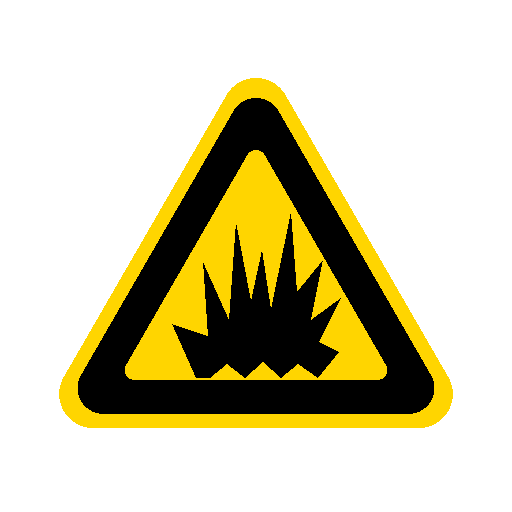
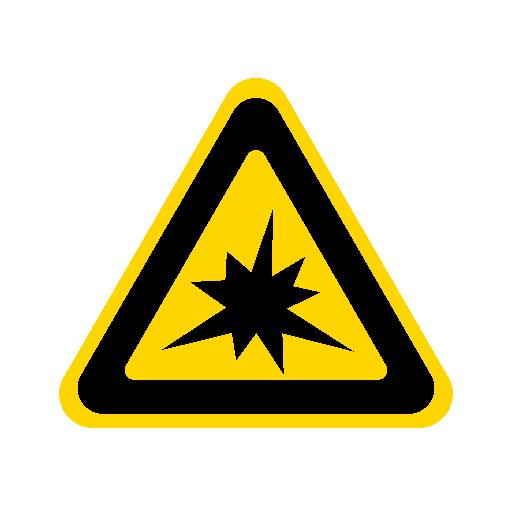
task-101-08-barrel-warning-sign: recentre the sign on the visible corner

Changed region(s): [[0.3125, 0.4062, 0.6875, 0.75]]

diff --git a/Tools/art/blender/barrel.py b/Tools/art/blender/barrel.py
@@ -161,9 +161,9 @@ STK_CAP_CLEAR = rect_dist_to(cx, cy) - 9.5 if not (abs((Vector((cx, cy, 0)) - st
 LID_AP = 34.0 * math.cos(math.radians(180.0 / FACETS))
 STK_EDGE_CLEAR = min(LID_AP - max(p.x * math.cos(math.radians(-90.0 + 45.0 * k + 22.5)) + p.y * math.sin(math.radians(-90.0 + 45.0 * k + 22.5)) for k in range(FACETS)) for p in stk_pts)
 # warning sign (task-101-08): offset copies (0.25 cm) of the body facets it covers, ONE planar projection (plane normal = the bisector of the
-# vertical corner at -45 deg, u along the tangent, v = z), so the sign runs across the facet edge. 27 cm wide, between the rings (z 52..79).
+# vertical corner at -90 deg, u along the tangent, v = z), so the sign runs across the facet edge. 27 cm wide, between the rings (z 52..79).
 mats["warning"] = bpy.data.materials.new("M_Barrel_warning")
-SIGN_W, SIGN_ZC, SIGN_OFF, SIGN_CORNER = 27.0, 65.5, 0.25, 1
+SIGN_W, SIGN_ZC, SIGN_OFF, SIGN_CORNER = 27.0, 65.5, 0.25, 0   # corner at -90 deg: right of the old sticker facet, visible from azimuth -35
 a_c = math.radians(-90.0 + 45.0 * SIGN_CORNER)
 n_c = Vector((math.cos(a_c), math.sin(a_c), 0)); t_c = Vector((-math.sin(a_c), math.cos(a_c), 0))
 zb = rings[5][0].co.z   # body band 51 -> 80 (vertical facets)
@@ -339,7 +339,7 @@ report = {
     "uv_layers": [u.name for u in mesh.uv_layers],
     "uv_checks": {
         "UVMap": {"purpose": "wear mask + decals", "tile_cm": 100.0, "cm_per_uv_unit_min": round(min(dens), 3), "cm_per_uv_unit_max": round(max(dens), 3),
-                  "decal_quads_uv": "sticker: own 0..1 quad; warning: ONE planar projection over 2 facet copies (u along the tangent of the corner at -45 deg, 27 cm = 0..1, v = z 52..79 = 0..1)", "note": "non-decal faces tile past 0..1 (mask is tileable, wrap/repeat)"},
+                  "decal_quads_uv": "sticker: own 0..1 quad; warning: ONE planar projection over 2 facet copies (u along the tangent of the corner at -90 deg, 27 cm = 0..1, v = z 52..79 = 0..1)", "note": "non-decal faces tile past 0..1 (mask is tileable, wrap/repeat)"},
         "LightMap": {"faces": len(boxes), "triangles": tris, "overlapping_face_pairs": overlaps, "bounds_min": [round(float(u1a.min()), 5)], "bounds_max": [round(float(u1a.max()), 5)],
                      "min_gap_px_at_256": round(float(min_gap), 3), "min_border_px_at_256": round(float(border), 3), "required_margin_px": 2, "pass": bool(lm_ok), "texel_scale_px_per_cm_at_256": round(lm_scale, 4)},
     },
@@ -357,7 +357,7 @@ report = {
     "edge_bands": {"seed": SEED, "width_cm": 1.0, "offset_cm": 0.15, "loops": band_stats,
                    "cap": "stepped base (r 9.5 then r 8.5), chamfer to r 7.5, 4 hex bolts (r 1.3, height 0.7, material M_Barrel_cap_edge) at radius 4.2, top z = 134"},
     "removed": ["flame pictogram decal and T_Barrel_Pictogram.png", "EdgeWear vertex colour attribute", "hard-threshold edge chips", "bare metal #8A9099 mix", "16-column rings and the intermediate edge loops added for EdgeWear (back to 8 columns, 12 bands)"],
-    "decal_faces": 1 + sign_faces, "sticker_lid": {"flat_on_lid_z_cm": STK_Z, "size_cm": [STK_W, STK_H], "centre_xy_cm": [round(stk_c.x, 2), round(stk_c.y, 2)], "upright_for_azimuth_deg": -35, "clearance_to_cap_rim_cm": round(STK_CAP_CLEAR, 2), "clearance_to_lid_top_edge_cm": round(STK_EDGE_CLEAR, 2), "body_facet_left_clean": True}, "warning_sign": {"script": "Tools/art/blender/warning_sign.py", "texture": "T_Barrel_Warning.png", "size_px": [512, 512], "faces": sign_faces, "width_cm": SIGN_W, "z_range_cm": [SIGN_ZC - half, SIGN_ZC + half], "offset_cm": SIGN_OFF, "projection": "single planar (bisector of the corner at -45 deg), continues across the facet edge", "blend": "alpha: Masked or Translucent in Unreal", "artwork": "own drawing, no text, not traced from a reference"}, "shading": "flat", "warnings": warnings,
+    "decal_faces": 1 + sign_faces, "sticker_lid": {"flat_on_lid_z_cm": STK_Z, "size_cm": [STK_W, STK_H], "centre_xy_cm": [round(stk_c.x, 2), round(stk_c.y, 2)], "upright_for_azimuth_deg": -35, "clearance_to_cap_rim_cm": round(STK_CAP_CLEAR, 2), "clearance_to_lid_top_edge_cm": round(STK_EDGE_CLEAR, 2), "body_facet_left_clean": True}, "warning_sign": {"script": "Tools/art/blender/warning_sign.py", "texture": "T_Barrel_Warning.png", "size_px": [512, 512], "faces": sign_faces, "width_cm": SIGN_W, "z_range_cm": [SIGN_ZC - half, SIGN_ZC + half], "offset_cm": SIGN_OFF, "projection": "single planar (bisector of the corner at -90 deg), continues across the facet edge", "blend": "alpha: Masked or Translucent in Unreal", "artwork": "own drawing, no text, not traced from a reference"}, "shading": "flat", "warnings": warnings,
 }
 bpy.ops.object.select_all(action="DESELECT"); obj.select_set(True)
 bpy.context.view_layer.objects.active = obj

diff --git a/Tools/art/blender/warning_sign.py b/Tools/art/blender/warning_sign.py
@@ -1,7 +1,7 @@
 """Explosion warning sign texture (task-101-08). Headless:
   "$BLENDER_EXE" -b --factory-startup -P Tools/art/blender/warning_sign.py -- [--out Art/Meshes/barrel/T_Barrel_Warning.png]
 Own drawing, deterministic, no text: 512 x 512 RGBA, transparent background, rounded yellow triangle (#FFD500),
-thick rounded black border, black explosion burst (8 irregular spikes of different heights on a jagged base). Hard edges (binary alpha)."""
+thick rounded black border, black explosion burst (9 irregular spikes of different lengths, radial star). Hard edges (binary alpha)."""
 import bpy, os, sys
 import numpy as np
 
@@ -31,10 +31,15 @@ def rounded_tri(rho, a):
 outer = rounded_tri(128.0, 34.0)        # yellow plate
 black = rounded_tri(114.0, 26.0)        # black border outer edge
 inner = rounded_tri(80.0, 10.0)         # yellow field inside the border
-# burst polygon (px, y down): own shape, 8 spikes of different heights and widths on a jagged base
-BURST = [(196, 378), (172, 324), (208, 336), (203, 262), (229, 320), (236, 222), (251, 301), (262, 250), (271, 309),
-         (291, 212), (297, 292), (323, 260), (311, 320), (341, 298), (319, 342), (339, 352), (318, 378),
-         (298, 364), (281, 378), (263, 362), (245, 378), (227, 364), (210, 378)]
+# burst: own design, a radial star around the incentre with 9 spikes of different lengths at irregular angles (math angle in degrees, y up;
+# tip radius in px), irregular valleys in between. Tips toward the triangle corners are longer than the ones toward its sides.
+TIPS = [(80, 100), (118, 62), (160, 70), (205, 105), (250, 58), (292, 74), (335, 108), (12, 66), (45, 70)]
+VAL = [(98, 34), (140, 40), (183, 30), (228, 36), (271, 27), (314, 38), (355, 31), (28, 42), (62, 33)]
+BC = np.array([256.0, 306.0])
+BURST = []
+for (ta, tr), (va, vr) in zip(TIPS, VAL):
+    for ang, rad in ((ta, tr), (va, vr)):
+        BURST.append((BC[0] + rad * np.cos(np.radians(ang)), BC[1] - rad * np.sin(np.radians(ang))))
 def poly_mask(pts):
     m = np.zeros((N, N), bool); n = len(pts)
     for i in range(n):
